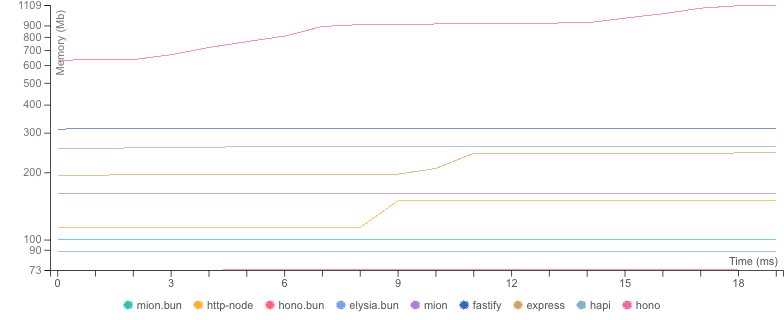
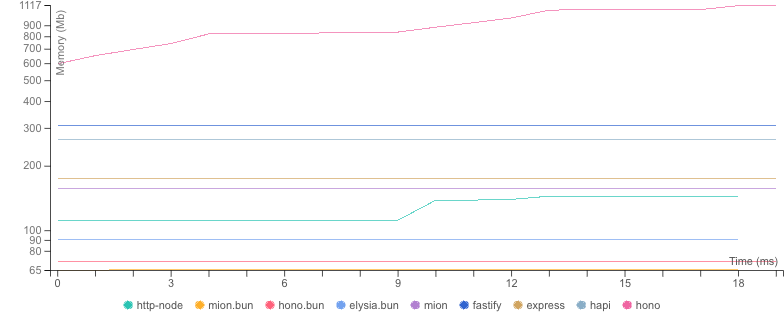
update copy benchmarks script to work with esm and benchmarks to last version

diff --git a/scripts/copy-benchmarks.js b/scripts/copy-benchmarks.js
@@ -10,8 +10,11 @@
  * corresponding website documentation files.
  */
 
-const fs = require('fs');
-const path = require('path');
+import fs from 'fs';
+import path from 'path';
+import {fileURLToPath} from 'url';
+
+const __dirname = path.dirname(fileURLToPath(import.meta.url));
 
 // Configuration: source -> destination mapping
 const BENCHMARK_MAPPINGS = [

diff --git a/website/content/7.benchmarks/2.light-validation.md b/website/content/7.benchmarks/2.light-validation.md
@@ -60,8 +60,8 @@ We can observe how in this benchmark the requests take considerably more time co
 
 * __Machine:__ darwin arm64 | 12 vCPUs | 16.0GB Mem
 * __Node:__ `v24.13.0`
-* __Run:__ Fri Feb 06 2026 19:45:40 GMT+0000 (Greenwich Mean Time)
-* __Method:__ `autocannon -c 100 -d 20.17 -p 10 localhost:3000` (two rounds; one to warm-up, one to measure)
+* __Run:__ Fri Feb 27 2026 01:09:42 GMT+0000 (Greenwich Mean Time)
+* __Method:__ `autocannon -c 100 -d 20.1 -p 10 localhost:3000` (two rounds; one to warm-up, one to measure)
 
 #### Req (R/s) 
 
@@ -87,15 +87,15 @@ We can observe how in this benchmark the requests take considerably more time co
 
 |              | Version   | Router | Req (R/s)   | Latency (ms) | Output (Mb/s) | Max Memory (Mb) | Max Cpu (%) | Validation | Description                                                |
 | :--          | --:       | --:    | :-:         | --:          | --:           | --:             | --:         | :-:        | :--                                                        |
-| **mion.bun** | **0.6.2** | **✓**  | **73059.2** | **13.29**    | **17.83**     | **101**         | **99**      | **✓**      | **mion using bun, automatic validation and serialization** |
-| http-node    | 16.18.0   | ✗      | 72140.8     | 13.38        | 18.08         | 150             | 109         | ✓          | bare node http server with Zod validation                  |
-| hono.bun     | 3.12.6    | ✓      | 71859.2     | 13.50        | 13.76         | 74              | 97          | ✓          | hono bun server with Zod validation                        |
-| elysia.bun   | 1.0.0     | ✓      | 71772.8     | 13.54        | 13.75         | 89              | 95          | ✓          | Elysia framework with TypeBox validation                   |
-| **mion**     | **0.6.2** | **✓**  | **64166.4** | **15.07**    | **18.54**     | **161**         | **110**     | **✓**      | **Automatic validation and serialization out of the box**  |
-| fastify      | 5.7.4     | ✓      | 45385.6     | 21.52        | 11.42         | 314             | 129         | ✓          | Fastify with native JSON Schema validation                 |
-| express      | 5.2.1     | ✓      | 44388.8     | 22.01        | 11.13         | 245             | 114         | ✓          | Express with Zod validation                                |
-| hapi         | 21.4.4    | ✓      | 40291.2     | 24.31        | 10.10         | 263             | 112         | ✓          | Hapi with Zod validation                                   |
-| hono         | 3.12.6    | ✓      | 32771.6     | 29.99        | 7.75          | 1109            | 146         | ✓          | hono node server with Zod validation                       |
+| http-node    | 16.18.0   | ✗      | 71516.8     | 13.54        | 17.93         | 145             | 108         | ✓          | bare node http server with Zod validation                  |
+| **mion.bun** | **0.6.2** | **✓**  | **70662.4** | **13.72**    | **17.24**     | **66**          | **98**      | **✓**      | **mion using bun, automatic validation and serialization** |
+| hono.bun     | 3.12.6    | ✓      | 69801.6     | 13.93        | 13.37         | 72              | 94          | ✓          | hono bun server with Zod validation                        |
+| elysia.bun   | 1.0.0     | ✓      | 69360.0     | 14.02        | 13.29         | 91              | 94          | ✓          | Elysia framework with TypeBox validation                   |
+| **mion**     | **0.6.2** | **✓**  | **63504.0** | **15.24**    | **18.34**     | **157**         | **110**     | **✓**      | **Automatic validation and serialization out of the box**  |
+| fastify      | 5.7.4     | ✓      | 46017.6     | 21.23        | 11.58         | 311             | 134         | ✓          | Fastify with native JSON Schema validation                 |
+| express      | 5.2.1     | ✓      | 45132.8     | 21.65        | 11.32         | 176             | 117         | ✓          | Express with Zod validation                                |
+| hapi         | 21.4.4    | ✓      | 41270.4     | 23.72        | 10.35         | 266             | 112         | ✓          | Hapi with Zod validation                                   |
+| hono         | 3.12.6    | ✓      | 33037.6     | 29.74        | 7.81          | 1117            | 135         | ✓          | hono node server with Zod validation                       |
 
 
 :button-link[Benchmarks Repo]{icon="grommet-icons:github" href="https://github.com/MionKit/Benchmarks" target="_blank"}

diff --git a/website/content/7.benchmarks/3.heavy-validation.md b/website/content/7.benchmarks/3.heavy-validation.md
@@ -87,7 +87,7 @@ We can observe the more validation and serialization is required, the more perfo
 
 * __Machine:__ darwin arm64 | 12 vCPUs | 16.0GB Mem
 * __Node:__ `v24.13.0`
-* __Run:__ Fri Feb 06 2026 18:22:00 GMT+0000 (Greenwich Mean Time)
+* __Run:__ Fri Feb 27 2026 01:01:32 GMT+0000 (Greenwich Mean Time)
 * __Method:__ `autocannon -c 100 -d 20.01 -p 10 localhost:3000` (two rounds; one to warm-up, one to measure)
 
 #### Req (R/s) 
@@ -114,15 +114,15 @@ We can observe the more validation and serialization is required, the more perfo
 
 |              | Version   | Router | Req (R/s)   | Latency (ms) | Output (Mb/s) | Max Memory (Mb) | Max Cpu (%) | Validation | Description                                                |
 | :--          | --:       | --:    | :-:         | --:          | --:           | --:             | --:         | :-:        | :--                                                        |
-| **mion.bun** | **0.6.2** | **✓**  | **54716.8** | **17.76**    | **56.45**     | **111**         | **102**     | **✓**      | **mion using bun, automatic validation and serialization** |
-| hono.bun     | 3.12.6    | ✓      | 52206.4     | 18.64        | 51.47         | 103             | 103         | ✓          | hono bun server with Zod validation                        |
-| elysia.bun   | 1.0.0     | ✓      | 43489.6     | 22.47        | 42.88         | 123             | 102         | ✓          | Elysia framework with TypeBox validation                   |
-| **mion**     | **0.6.2** | **✓**  | **41920.0** | **23.35**    | **45.13**     | **172**         | **111**     | **✓**      | **Automatic validation and serialization out of the box**  |
-| http-node    | 16.18.0   | ✗      | 41300.8     | 23.71        | 43.16         | 163             | 110         | ✓          | bare node http server with Zod validation                  |
-| fastify      | 5.7.4     | ✓      | 30864.8     | 31.88        | 32.29         | 351             | 127         | ✓          | Fastify with native JSON Schema validation                 |
-| express      | 5.2.1     | ✓      | 30076.8     | 32.72        | 31.43         | 178             | 117         | ✓          | Express with Zod validation                                |
-| hapi         | 21.4.4    | ✓      | 28099.2     | 35.05        | 29.37         | 271             | 115         | ✓          | Hapi with Zod validation                                   |
-| hono         | 3.12.6    | ✓      | 24731.2     | 39.90        | 25.49         | 616             | 126         | ✓          | hono node server with Zod validation                       |
+| **mion.bun** | **0.6.2** | **✓**  | **55899.2** | **17.38**    | **57.67**     | **77**          | **102**     | **✓**      | **mion using bun, automatic validation and serialization** |
+| hono.bun     | 3.12.6    | ✓      | 52971.2     | 18.37        | 52.23         | 104             | 102         | ✓          | hono bun server with Zod validation                        |
+| elysia.bun   | 1.0.0     | ✓      | 43713.6     | 22.36        | 43.10         | 122             | 103         | ✓          | Elysia framework with TypeBox validation                   |
+| **mion**     | **0.6.2** | **✓**  | **42712.0** | **22.89**    | **45.98**     | **170**         | **111**     | **✓**      | **Automatic validation and serialization out of the box**  |
+| http-node    | 16.18.0   | ✗      | 41384.0     | 23.65        | 43.26         | 163             | 110         | ✓          | bare node http server with Zod validation                  |
+| fastify      | 5.7.4     | ✓      | 31114.4     | 31.61        | 32.55         | 352             | 127         | ✓          | Fastify with native JSON Schema validation                 |
+| express      | 5.2.1     | ✓      | 30055.2     | 32.73        | 31.41         | 247             | 116         | ✓          | Express with Zod validation                                |
+| hapi         | 21.4.4    | ✓      | 28297.6     | 34.80        | 29.57         | 285             | 114         | ✓          | Hapi with Zod validation                                   |
+| hono         | 3.12.6    | ✓      | 24819.2     | 39.68        | 25.58         | 691             | 126         | ✓          | hono node server with Zod validation                       |
 
 
 :button-link[Benchmarks Repo]{icon="grommet-icons:github" href="https://github.com/MionKit/Benchmarks" target="_blank"}

diff --git a/website/content/7.benchmarks/1.hello-world.md b/website/content/7.benchmarks/1.hello-world.md
@@ -29,7 +29,7 @@ Bun servers (mion.bun, hono.bun, elysia.bun) are **excluded from the hello world
 
 * __Machine:__ darwin arm64 | 12 vCPUs | 16.0GB Mem
 * __Node:__ `v24.13.0`
-* __Run:__ Fri Feb 06 2026 18:25:16 GMT+0000 (Greenwich Mean Time)
+* __Run:__ Fri Feb 27 2026 01:04:50 GMT+0000 (Greenwich Mean Time)
 * __Method:__ `autocannon -c 100 -d 20.01 -p 10 localhost:3000` (two rounds; one to warm-up, one to measure)
 
 #### Req (R/s)
@@ -56,12 +56,12 @@ Bun servers (mion.bun, hono.bun, elysia.bun) are **excluded from the hello world
 
 |           | Version   | Router | Req (R/s)    | Latency (ms) | Output (Mb/s) | Max Memory (Mb) | Max Cpu (%) | Validation | Description                                               |
 | :--       | --:       | --:    | :-:          | --:          | --:           | --:             | --:         | :-:        | :--                                                       |
-| http-node | 16.18.0   | ✗      | 126297.6     | 7.52         | 22.52         | 145             | 108         | ✓          | bare node http server with Zod validation                 |
-| **mion**  | **0.6.2** | **✓**  | **109779.2** | **8.59**     | **21.46**     | **229**         | **107**     | **✓**      | **Automatic validation and serialization out of the box** |
-| hono      | 3.12.6    | ✓      | 103900.8     | 9.11         | 17.04         | 228             | 109         | ✓          | hono node server with Zod validation                      |
-| hapi      | 21.4.4    | ✓      | 87491.2      | 10.94        | 15.60         | 264             | 111         | ✓          | Hapi with Zod validation                                  |
-| fastify   | 5.7.4     | ✓      | 86179.2      | 11.05        | 15.45         | 155             | 108         | ✓          | Fastify with native JSON Schema validation                |
-| express   | 5.2.1     | ✓      | 73958.4      | 13.00        | 13.19         | 232             | 109         | ✓          | Express with Zod validation                               |
+| http-node | 16.18.0   | ✗      | 127536.0     | 7.43         | 22.74         | 146             | 108         | ✓          | bare node http server with Zod validation                 |
+| **mion**  | **0.6.2** | **✓**  | **112435.2** | **8.31**     | **21.98**     | **224**         | **108**     | **✓**      | **Automatic validation and serialization out of the box** |
+| hono      | 3.12.6    | ✓      | 104310.4     | 9.07         | 17.11         | 231             | 108         | ✓          | hono node server with Zod validation                      |
+| hapi      | 21.4.4    | ✓      | 89321.6      | 10.74        | 15.93         | 253             | 111         | ✓          | Hapi with Zod validation                                  |
+| fastify   | 5.7.4     | ✓      | 86547.2      | 10.99        | 15.52         | 156             | 108         | ✓          | Fastify with native JSON Schema validation                |
+| express   | 5.2.1     | ✓      | 75843.2      | 12.70        | 13.52         | 236             | 109         | ✓          | Express with Zod validation                               |
 
 :button-link[Benchmarks Repo]{icon="grommet-icons:github" href="https://github.com/MionKit/Benchmarks" target="_blank"}
 
